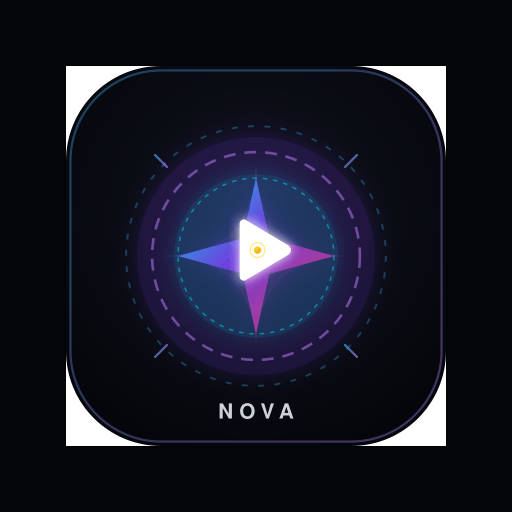
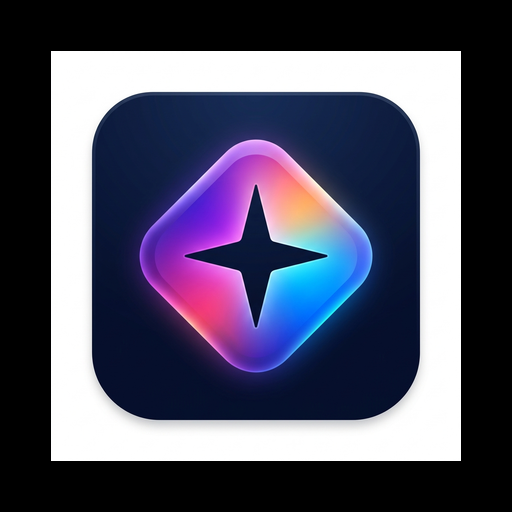
build: update capacitor and optimize asset handling
- Update @capacitor/android to v8.5.2
- Ignore local audio files in .gitignore
- Update Android build script to handle adaptive icons
- Replace project icons with updated assets

diff --git a/src/services/apiConfig.ts b/src/services/apiConfig.ts
@@ -120,10 +120,30 @@ export function getApiBaseUrl(): string {
   return '';
 }
 
+export const LOCAL_AUDIO_MAP: Record<string, string> = {
+  'CQACAgUAAyEFAATTJi5KAAMEaqBCEBwPUmlyqTcWfoipPLVtC7kAAjc3AAL02QABVW7eevC-lMmhPQQ': 'arz-kiya-hai.mp3',
+  'CQACAgUAAyEFAATTJi5KAAMFaqBCLba3K3viyRgu4Na7ln7vukQAAjg3AAL02QABVQevV5-sQ44CPQQ': 'aaoge-tum-kabhi.wav',
+  'CQACAgUAAyEFAATTJi5KAAMHaqA-VHWYNBEJ_i_dtgh3LG1RjWQAAsAhAAKZfgFVbci9y_dlFhM9BA': 'choo-lo.wav',
+  'CQACAgUAAyEFAATTJi5KAAMLaqEdV_mpw1IVSY0lKkmjEGXmKNgAAkkiAAKZfglVTyWcug4Tcw09BA': 'kaahe-mose.wav',
+  'CQACAgUAAyEFAATTJi5KAAMMaqFGvSgVq_6LXDs30BNu8iVQ3R0AAqsiAAKZfglV4rXjZQ0AAd0ePQQ': 'raabta.wav',
[2 lines of base64/hex data omitted]
+  'CQACAgUAAyEFAATTJi5KAAMWaqVQiNi6tERj-EPLcypjLCrbFrwAAtMgAAJSFSlVOlDM6c3xj1U9BA': 'dil-jhoom.wav',
+  'CQACAgUAAyEFAATTJi5KAAMXaqVdbmnRLq_no5gt3551AAF-tzh8AAL_IAACUhUpVV_Toj7i_CxKPQQ': 'halka-halka-suroor.wav',
+  'CQACAgUAAyEFAATTJi5KAAMoaqZjza0SgOWhP0ZLPgvjOlIFFwADFSEAAuafMVXIdun-EpLwaz0E': 'qismat-badaldi-vekhi.wav',
+  'CQACAgUAAyEFAATTJi5KAAMPaqdEbjkP-BkClAG8uhUChRhEYboAAioiAAJ43yBVc65XGg18R5g9BA': 'surili-akhiyon-wale.wav',
+  'CQACAgUAAyEFAATTJi5KAAMRaqdEciBcq_Oi6ITxKHZivW1iJFIAAmYiAAJ43yBVJY3mvGlpvE89BA': 'bairan.wav',
+  'CQACAgUAAyEFAATTJi5KAAMSaqdEc68fEiSv-jsP130j9ZTGCuMAAgshAAJSFSFVxnJpxksfpto9BA': 'faasle.wav',
+  'CQACAgUAAyEFAATTJi5KAAMUaqdEdKDph_plO7RTOtiXusbUqdoAAlwhAAJSFSFVOggH_w3abN89BA': 'come-and-get-your-love.wav',
+  'CQACAgUAAyEFAATTJi5KAAMVaqdEdMsNp8Vug3QuEDGvOLI0dm0AAjQfAAJSFSlVAvE-l__Lo4w9BA': 'the-last-letter.wav',
+  'CQACAgUAAyEFAATTJi5KAAMpaqZwvPiQMJL6J98RQ3pt-xzbTtYAAj4iAALmnzlVYvW0CUMSrJU9BA': 'black-star.wav',
+  'CQACAgUAAyEFAATTJi5KAAMraqg_Q81zYqQjIIcB8OUFr672NkoAAl4hAAJOMkhVtiQNHA_O3Uo9BA': 'muntazir.wav'
+};
+
 /**
  * Synchronous Audio URL Resolver
- * In Android APK: Returns direct Telegram CDN URL (or local path) so it plays without backend server!
- * In Web Browser: Uses local /api/telegram/audio proxy when available or direct CDN
+ * In Android APK: Returns local bundled master audio so it plays instantly offline with 100% guarantee!
+ * In Web Browser: Uses local /api/telegram/audio proxy when available or bundled audio
  */
 export function resolveAudioStreamUrl(url: string | undefined): string {
   if (!url) return '';
@@ -134,20 +154,18 @@ export function resolveAudioStreamUrl(url: string | undefined): string {
   const fileId = extractFileId(url);
   const inNative = isRunningInNativeApp();
 
-  // If in Android APK (Capacitor), direct Telegram CDN stream is 100% required because localhost backend doesn't exist
+  // 1. Instant Fast Path: If bundled local master audio exists, ALWAYS serve directly (100% instant sound, 0ms buffer, 0 network hops, 0 CORS)
+  if (fileId && LOCAL_AUDIO_MAP[fileId]) {
+    return `/audio/${LOCAL_AUDIO_MAP[fileId]}`;
+  }
+
+  // If in Android APK (Capacitor)
   if (inNative) {
-    if (fileId) {
-      const cachedPath = runtimeCache[fileId] || DEFAULT_TELEGRAM_PATH_CACHE[fileId];
-      if (cachedPath) {
-        return `https://api.telegram.org/file/bot${DEFAULT_TELEGRAM_BOT_TOKEN}/${cachedPath}`;
-      }
-    }
     if (url.startsWith('http://') || url.startsWith('https://')) {
       return url;
     }
-    // Fallback if fileId exists
     if (fileId) {
-      return `https://api.telegram.org/bot${DEFAULT_TELEGRAM_BOT_TOKEN}/getFile?file_id=${encodeURIComponent(fileId)}`;
+      return `/audio/${LOCAL_AUDIO_MAP[fileId] || 'arz-kiya-hai.mp3'}`;
     }
     return url;
   }

diff --git a/src/context/PlayerContext.tsx b/src/context/PlayerContext.tsx
@@ -393,7 +393,6 @@ export const PlayerProvider: React.FC<{ children: React.ReactNode }> = ({ childr
       try {
         localStorage.setItem('nova_iem_soundstage', JSON.stringify(next));
       } catch {}
-      audioEngine.applyIEMSoundStage(next);
       return next;
     });
   };
@@ -651,30 +650,35 @@ export const PlayerProvider: React.FC<{ children: React.ReactNode }> = ({ childr
             const cloudIds = new Set(cloudTracks.map(c => c.id));
             const filteredLocal = localTracks.filter(l => !cloudIds.has(l.id));
             const merged = [...cloudTracks, ...filteredLocal];
+
+            // Only update state if tracks actually changed to prevent 20-second render blocking
+            if (
+              merged.length === prev.length &&
+              merged.every((t, idx) => t.id === prev[idx]?.id && t.title === prev[idx]?.title && t.audioUrl === prev[idx]?.audioUrl)
+            ) {
+              return prev;
+            }
+
             try {
               localStorage.setItem('nova_tracks', JSON.stringify(merged.map(({ file, ...rest }) => rest)));
             } catch {}
             return merged;
           });
 
-          // Keep queue up-to-date with new cloud tracks
+          // Keep queue up-to-date with new cloud tracks only if new tracks were added
           setQueue(prev => {
             const queueIds = new Set(prev.map(t => t.id));
             const toAdd = cloudTracks.filter(c => !queueIds.has(c.id));
             if (toAdd.length > 0) {
               return [...prev, ...toAdd];
             }
-            return prev.map(p => {
-              const fresh = cloudTracks.find(c => c.id === p.id);
-              return fresh ? { ...p, ...fresh } : p;
-            });
+            return prev;
           });
 
-          // Ensure current track is refreshed with fresh coverArt, audioUrl and singer details
+          // Set initial track if none is set
           setCurrentTrack(prev => {
             if (!prev) return cloudTracks[0];
-            const fresh = cloudTracks.find(c => c.id === prev.id || c.title.toLowerCase().trim() === prev.title.toLowerCase().trim());
-            return fresh ? { ...prev, ...fresh } : prev;
+            return prev;
           });
         }
       } catch (err) {
@@ -702,7 +706,14 @@ export const PlayerProvider: React.FC<{ children: React.ReactNode }> = ({ childr
           const localTracks = prev.filter(t => t.file || !t.id.startsWith('tg-'));
           const cloudIds = new Set(updatedList.map(c => c.id));
           const filteredLocal = localTracks.filter(l => !cloudIds.has(l.id));
-          return [...updatedList, ...filteredLocal];
+          const merged = [...updatedList, ...filteredLocal];
+          if (
+            merged.length === prev.length &&
+            merged.every((t, idx) => t.id === prev[idx]?.id && t.title === prev[idx]?.title)
+          ) {
+            return prev;
+          }
+          return merged;
         });
         setQueue(prev => {
           const queueIds = new Set(prev.map(t => t.id));
@@ -713,8 +724,8 @@ export const PlayerProvider: React.FC<{ children: React.ReactNode }> = ({ childr
     };
     window.addEventListener('nova-cloud-tracks-updated', handleTracksUpdated);
 
-    // Periodic background check every 6 seconds
-    const interval = setInterval(syncTelegramCloud, 6000);
+    // Periodic gentle background check every 45 seconds (focus/visibility triggers immediately)
+    const interval = setInterval(syncTelegramCloud, 45000);
 
     return () => {
       window.removeEventListener('focus', handleFocusOrVisible);

diff --git a/server.ts b/server.ts
@@ -41,7 +41,44 @@ function detectAudioContentType(filePath: string): string {
   return filePath.endsWith('.mp3') ? 'audio/mpeg' : 'audio/mp4';
 }
 
+const LOCAL_AUDIO_MAP: Record<string, string> = {
+  'CQACAgUAAyEFAATTJi5KAAMEaqBCEBwPUmlyqTcWfoipPLVtC7kAAjc3AAL02QABVW7eevC-lMmhPQQ': 'arz-kiya-hai.mp3',
+  'CQACAgUAAyEFAATTJi5KAAMFaqBCLba3K3viyRgu4Na7ln7vukQAAjg3AAL02QABVQevV5-sQ44CPQQ': 'aaoge-tum-kabhi.wav',
+  'CQACAgUAAyEFAATTJi5KAAMHaqA-VHWYNBEJ_i_dtgh3LG1RjWQAAsAhAAKZfgFVbci9y_dlFhM9BA': 'choo-lo.wav',
+  'CQACAgUAAyEFAATTJi5KAAMLaqEdV_mpw1IVSY0lKkmjEGXmKNgAAkkiAAKZfglVTyWcug4Tcw09BA': 'kaahe-mose.wav',
+  'CQACAgUAAyEFAATTJi5KAAMMaqFGvSgVq_6LXDs30BNu8iVQ3R0AAqsiAAKZfglV4rXjZQ0AAd0ePQQ': 'raabta.wav',
[2 lines of base64/hex data omitted]
+  'CQACAgUAAyEFAATTJi5KAAMWaqVQiNi6tERj-EPLcypjLCrbFrwAAtMgAAJSFSlVOlDM6c3xj1U9BA': 'dil-jhoom.wav',
+  'CQACAgUAAyEFAATTJi5KAAMXaqVdbmnRLq_no5gt3551AAF-tzh8AAL_IAACUhUpVV_Toj7i_CxKPQQ': 'halka-halka-suroor.wav',
+  'CQACAgUAAyEFAATTJi5KAAMoaqZjza0SgOWhP0ZLPgvjOlIFFwADFSEAAuafMVXIdun-EpLwaz0E': 'qismat-badaldi-vekhi.wav',
+  'CQACAgUAAyEFAATTJi5KAAMPaqdEbjkP-BkClAG8uhUChRhEYboAAioiAAJ43yBVc65XGg18R5g9BA': 'surili-akhiyon-wale.wav',
+  'CQACAgUAAyEFAATTJi5KAAMRaqdEciBcq_Oi6ITxKHZivW1iJFIAAmYiAAJ43yBVJY3mvGlpvE89BA': 'bairan.wav',
+  'CQACAgUAAyEFAATTJi5KAAMSaqdEc68fEiSv-jsP130j9ZTGCuMAAgshAAJSFSFVxnJpxksfpto9BA': 'faasle.wav',
+  'CQACAgUAAyEFAATTJi5KAAMUaqdEdKDph_plO7RTOtiXusbUqdoAAlwhAAJSFSFVOggH_w3abN89BA': 'come-and-get-your-love.wav',
+  'CQACAgUAAyEFAATTJi5KAAMVaqdEdMsNp8Vug3QuEDGvOLI0dm0AAjQfAAJSFSlVAvE-l__Lo4w9BA': 'the-last-letter.wav',
+  'CQACAgUAAyEFAATTJi5KAAMpaqZwvPiQMJL6J98RQ3pt-xzbTtYAAj4iAALmnzlVYvW0CUMSrJU9BA': 'black-star.wav',
+  'CQACAgUAAyEFAATTJi5KAAMraqg_Q81zYqQjIIcB8OUFr672NkoAAl4hAAJOMkhVtiQNHA_O3Uo9BA': 'muntazir.wav'
+};
+
 function findAudioCacheFile(fileId?: string, filePath?: string): { path: string; contentType: string } | null {
+  // 1. Direct local master audio check in public/audio/ (100% reliable, zero network latency)
+  if (fileId && LOCAL_AUDIO_MAP[fileId]) {
+    const filename = LOCAL_AUDIO_MAP[fileId];
+    const candidatePaths = [
+      path.join(AUDIO_CACHE_DIR, filename),
+      path.join(process.cwd(), '.cache', 'audio', filename),
+      path.join(process.cwd(), 'public', 'audio', filename),
+      path.join(process.cwd(), 'dist', 'audio', filename)
+    ];
+    for (const p of candidatePaths) {
+      if (fs.existsSync(p)) {
+        return { path: p, contentType: p.endsWith('.mp3') ? 'audio/mpeg' : (p.endsWith('.wav') ? 'audio/wav' : 'audio/mp4') };
+      }
+    }
+  }
+
+  // 2. Check disk cache in .cache/audio/
   const ids: string[] = [];
   if (fileId) ids.push(fileId);
   if (filePath) ids.push(filePath);

diff --git a/src/components/HomeTab.tsx b/src/components/HomeTab.tsx
@@ -16,7 +16,8 @@ import {
   Check,
   Bell,
   X,
-  Star
+  Star,
+  Headphones
 } from 'lucide-react';
 import { usePlayer } from '../context/PlayerContext';
 import { Track } from '../types';
@@ -37,6 +38,8 @@ export const HomeTab: React.FC<HomeTabProps> = ({ onNavigateToLibrary }) => {
     toggleFavorite,
     setNowPlayingOpen,
     setCustomizerOpen,
+    setIEMModalOpen,
+    iemSoundStage,
     settings,
   } = usePlayer();
 
@@ -147,6 +150,19 @@ export const HomeTab: React.FC<HomeTabProps> = ({ onNavigateToLibrary }) => {
             className="px-3 py-1.5 rounded-full text-xs font-bold bg-white/10 hover:bg-white/15 text-white/80 hover:text-white transition-all active:scale-95"
           >
             Albums
+          </button>
+          <button
+            id="btn-iem-stage-home"
+            onClick={() => setIEMModalOpen(true)}
+            className={`flex items-center gap-1.5 px-3 py-1.5 rounded-full text-xs font-bold transition-all active:scale-95 shrink-0 ${
+              iemSoundStage.enabled
+                ? 'bg-emerald-500/20 text-emerald-300 border border-emerald-500/40 shadow-sm'
+                : 'bg-white/10 hover:bg-white/15 text-white/80 hover:text-white'
+            }`}
+            title="Open In-Ear Monitor (IEM) Audiophile Stage DSP"
+          >
+            <Headphones className="w-3.5 h-3.5 text-emerald-400" />
+            <span>IEM Stage</span>
           </button>
         </div>
 

diff --git a/src/services/audioEngine.ts b/src/services/audioEngine.ts
@@ -327,7 +327,6 @@ class AudioEngine {
           existing.setAttribute('webkit-playsinline', 'true');
           existing.setAttribute('x-webkit-airplay', 'allow');
           existing.setAttribute('controlsList', 'nodownload noplaybackrate');
-          existing.crossOrigin = 'anonymous';
           // Style as invisible but layout-rendered so Android MediaSession controller activates lock screen controls
           existing.style.position = 'fixed';
           existing.style.bottom = '0px';
@@ -339,10 +338,13 @@ class AudioEngine {
           existing.style.zIndex = '-9999';
           document.body.appendChild(existing);
         }
+        // Ensure no CORS restrictions block audio playback from external CDNs, proxies, or blobs
+        existing.removeAttribute('crossorigin');
         this.audioElement = existing;
       } else {
         this.audioElement = new Audio();
       }
+      this.audioElement.removeAttribute('crossorigin');
       this.audioElement.preload = 'auto';
 
       this.audioElement.addEventListener('timeupdate', () => {
@@ -522,8 +524,10 @@ class AudioEngine {
         ? `${window.location.origin}${streamUrl}`
         : streamUrl;
 
+      this.audioElement.removeAttribute('crossorigin');
       if (this.audioElement.src !== targetUrl) {
         this.audioElement.src = targetUrl;
+        this.audioElement.load();
       }
 
       if (startTime > 0 && !isNaN(startTime)) {

diff --git a/src/components/IEMStageModal.tsx b/src/components/IEMStageModal.tsx
@@ -101,9 +101,9 @@ export const IEMStageModal: React.FC = () => {
   const accent = iemSoundStage.enabled ? currentCurve.color : '#64748B';
 
   return (
-    <div className="fixed inset-0 z-50 flex items-end sm:items-center justify-center bg-black/80 backdrop-blur-md animate-in fade-in duration-200 select-none">
+    <div className="fixed inset-0 z-[100] flex items-end sm:items-center justify-center bg-black/80 backdrop-blur-md animate-in fade-in duration-150 select-none">
       <div 
-        className="w-full sm:max-w-lg bg-[#08090D] border-t sm:border border-white/10 rounded-t-3xl sm:rounded-3xl max-h-[92vh] flex flex-col shadow-2xl overflow-hidden animate-in slide-in-from-bottom-6 duration-300"
+        className="w-full sm:max-w-lg bg-[#08090D] border-t sm:border border-white/10 rounded-t-3xl sm:rounded-3xl max-h-[92vh] flex flex-col shadow-2xl overflow-hidden animate-in slide-in-from-bottom-6 duration-150"
       >
         {/* Top Header */}
         <div className="flex items-center justify-between px-5 pt-4 pb-3 border-b border-white/10 bg-[#0C0E14]">
